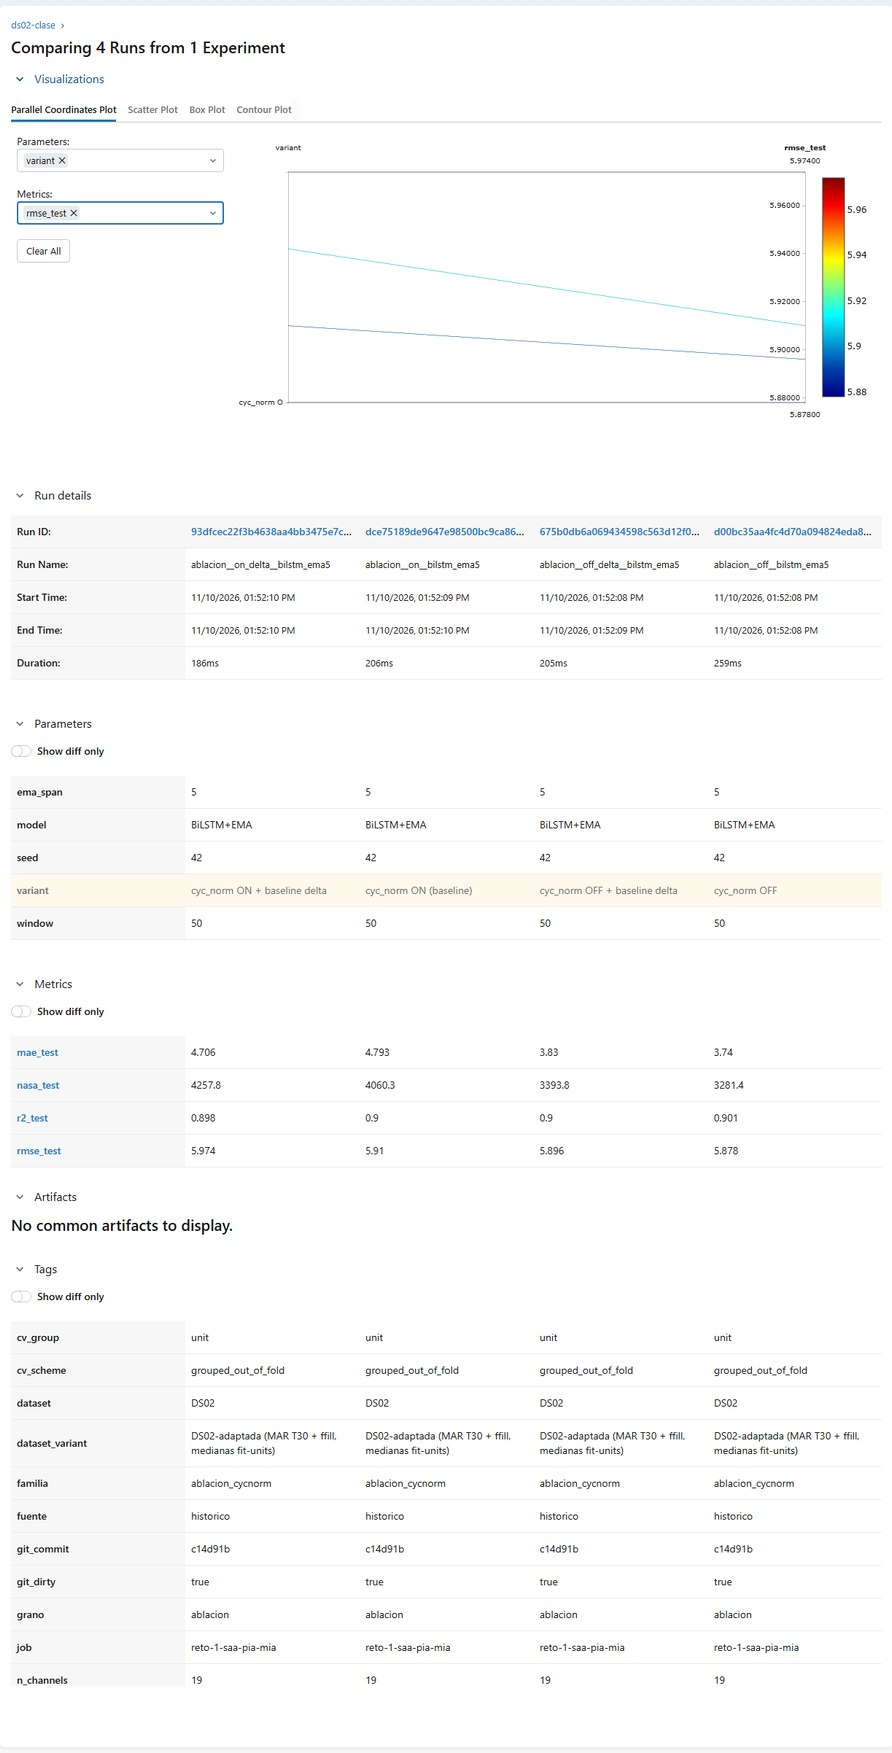
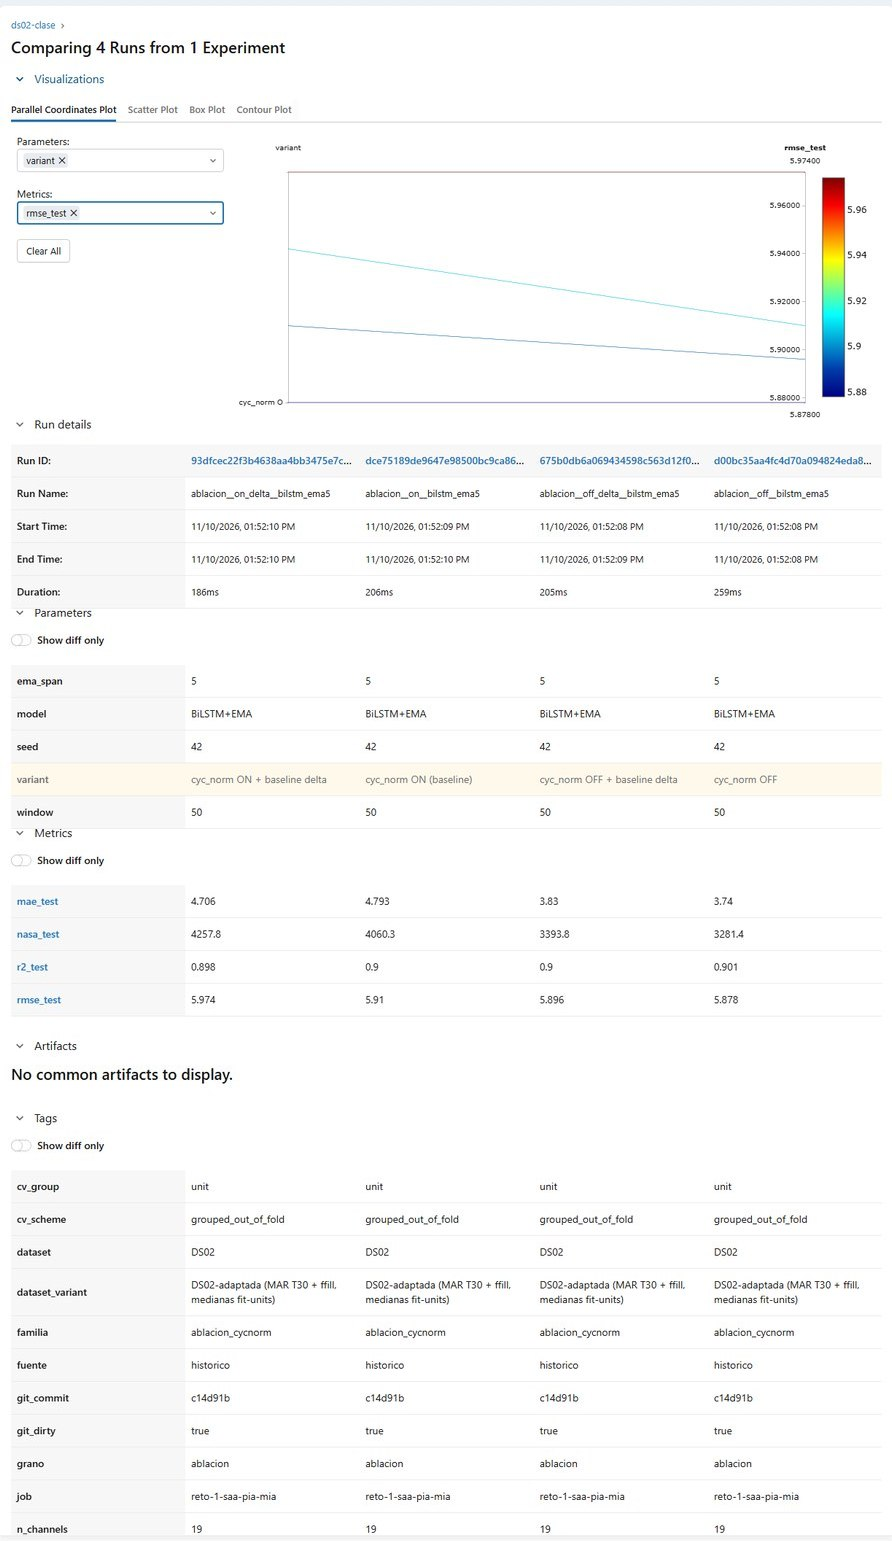
docs(mlflow): figuras con pie y enlace, tabla nativa de grano fila y huecos recortados

diff --git a/README.md b/README.md
@@ -396,9 +396,27 @@ Los granos no se mezclan: el RMSE de fila y el de ventana no miden lo mismo, y e
 store lo declara con el tag `grano`. La ablación se aísla con
 `familia=ablacion_cycnorm`.
 
+**Grano fila (validación out-of-fold, GroupKFold por motor):**
+
+| Modelo | RMSE val | MAE val | R² val | Tiempo (s) |
+|---|---:|---:|---:|---:|
+| Ridge | 8.2762 | 7.6611 | 0.8502 | 3,5 |
+| KNN | 9.4092 | 8.1856 | 0.8181 | 9,1 |
+| Random Forest | 9.0704 | 8.1534 | 0.8270 | 79,6 |
+| SVR | 8.2927 | 7.5299 | 0.8565 | 2,7 |
+| XGBoost | **8.2173** | 7.4688 | 0.8543 | 7,2 |
+| MLP base | 7.3580 | 5.6405 | 0.8918 | 27,5 |
+| MLP E1 capacidad | 7.4808 | 5.7735 | 0.8882 | 70,7 |
+| MLP E2 reg-lr | **7.3404** | 5.6481 | **0.8924** | 33,3 |
+| MLP E3 batch | 7.3554 | 5.7035 | 0.8919 | 38,6 |
+
+La selección es por validación; solo los elegidos tienen test (XGB 11.034 y MLP E2 7.7211).
+
 <p align="center">
-  <img src="docs/evidencia/mlflow/compare_fila.jpg" width="800" alt="MLflow Compare: nueve modelos de grano fila (5 clásicos + 4 MLP) por rmse_val">
+  <a href="docs/evidencia/mlflow/compare_fila.jpg"><img src="docs/evidencia/mlflow/compare_fila.jpg" width="800" alt="MLflow Compare: nueve modelos de grano fila (5 clásicos + 4 MLP) por rmse_val"></a>
 </p>
+
+<p align="center"><em>Figura 1 · Compare del grano fila en MLflow (clic para tamaño completo).</em></p>
 
 ### El grano ventana se compara dentro de MLflow
 
@@ -406,8 +424,10 @@ Los cuatro runs del bundle (LGBM, BiLSTM, BiLSTM+EMA5 y el híbrido desplegado)
 comparten experimento y se comparan por `rmse_test`: 7.067 / 5.654 / 5.618 / 4.338.
 
 <p align="center">
-  <img src="docs/evidencia/mlflow/compare_ventana.jpg" width="800" alt="MLflow Compare: cuatro runs de grano ventana, del LGBM al bundle C desplegado">
+  <a href="docs/evidencia/mlflow/compare_ventana.jpg"><img src="docs/evidencia/mlflow/compare_ventana.jpg" width="800" alt="MLflow Compare: cuatro runs de grano ventana, del LGBM al bundle C desplegado"></a>
 </p>
+
+<p align="center"><em>Figura 2 · Compare del grano ventana en MLflow.</em></p>
 
 ### La ablación se compara dentro de MLflow
 
@@ -423,8 +443,10 @@ son cuatro runs comparables dentro de la herramienta, no una figura suelta del
 notebook. El grid 4×3 completo está en `resultados/ablacion_cycnorm.csv`.
 
 <p align="center">
-  <img src="docs/evidencia/mlflow/compare_ablacion.jpg" width="800" alt="Vista Compare de MLflow con los cuatro runs de la ablación cyc_norm: rmse_test 5.974, 5.910, 5.896 y 5.878">
+  <a href="docs/evidencia/mlflow/compare_ablacion.jpg"><img src="docs/evidencia/mlflow/compare_ablacion.jpg" width="800" alt="Vista Compare de MLflow con los cuatro runs de la ablación cyc_norm: rmse_test 5.974, 5.910, 5.896 y 5.878"></a>
 </p>
+
+<p align="center"><em>Figura 3 · Ablación `cyc_norm` comparada en MLflow.</em></p>
 
 ### Por qué el store es de texto
 

diff --git a/README.en.md b/README.en.md
@@ -293,9 +293,27 @@ Grains never mix: row RMSE and window RMSE do not measure the same thing, and th
 store states it with the `grano` tag. Ablation runs are isolated by
 `familia=ablacion_cycnorm`.
 
+**Row grain (out-of-fold validation, GroupKFold by engine):**
+
+| Model | RMSE val | MAE val | R² val | Time (s) |
+|---|---:|---:|---:|---:|
+| Ridge | 8.2762 | 7.6611 | 0.8502 | 3.5 |
+| KNN | 9.4092 | 8.1856 | 0.8181 | 9.1 |
+| Random Forest | 9.0704 | 8.1534 | 0.8270 | 79.6 |
+| SVR | 8.2927 | 7.5299 | 0.8565 | 2.7 |
+| XGBoost | **8.2173** | 7.4688 | 0.8543 | 7.2 |
+| MLP base | 7.3580 | 5.6405 | 0.8918 | 27.5 |
+| MLP E1 capacity | 7.4808 | 5.7735 | 0.8882 | 70.7 |
+| MLP E2 reg-lr | **7.3404** | 5.6481 | **0.8924** | 33.3 |
+| MLP E3 batch | 7.3554 | 5.7035 | 0.8919 | 38.6 |
+
+Selection is by validation; only the chosen ones carry a test read (XGB 11.034 and MLP E2 7.7211).
+
 <p align="center">
-  <img src="docs/evidencia/mlflow/compare_fila.jpg" width="800" alt="MLflow Compare view of nine row-grain models (5 classical + 4 MLP) by rmse_val">
+  <a href="docs/evidencia/mlflow/compare_fila.jpg"><img src="docs/evidencia/mlflow/compare_fila.jpg" width="800" alt="MLflow Compare view of nine row-grain models (5 classical + 4 MLP) by rmse_val"></a>
 </p>
+
+<p align="center"><em>Figure 1 · Row-grain Compare in MLflow (click for full size).</em></p>
 
 ### Window grain compared inside MLflow
 
@@ -303,8 +321,10 @@ The four bundle runs (LGBM, BiLSTM, BiLSTM+EMA5 and the deployed hybrid) share o
 experiment and compare on `rmse_test`: 7.067 / 5.654 / 5.618 / 4.338.
 
 <p align="center">
-  <img src="docs/evidencia/mlflow/compare_ventana.jpg" width="800" alt="MLflow Compare: four window-grain runs, from LGBM to the deployed bundle C">
+  <a href="docs/evidencia/mlflow/compare_ventana.jpg"><img src="docs/evidencia/mlflow/compare_ventana.jpg" width="800" alt="MLflow Compare: four window-grain runs, from LGBM to the deployed bundle C"></a>
 </p>
+
+<p align="center"><em>Figure 2 · Window-grain Compare in MLflow.</em></p>
 
 ### Ablation compared inside MLflow
 
@@ -320,8 +340,10 @@ retraining**: four comparable runs inside the tool, not a lone notebook figure.
 The full 4×3 grid lives in `resultados/ablacion_cycnorm.csv`.
 
 <p align="center">
-  <img src="docs/evidencia/mlflow/compare_ablacion.jpg" width="800" alt="MLflow Compare view of the four cyc_norm ablation runs: rmse_test 5.974, 5.910, 5.896 and 5.878">
+  <a href="docs/evidencia/mlflow/compare_ablacion.jpg"><img src="docs/evidencia/mlflow/compare_ablacion.jpg" width="800" alt="MLflow Compare view of the four cyc_norm ablation runs: rmse_test 5.974, 5.910, 5.896 and 5.878"></a>
 </p>
+
+<p align="center"><em>Figure 3 · `cyc_norm` ablation compared in MLflow.</em></p>
 
 ### Why the store is plain text
 
